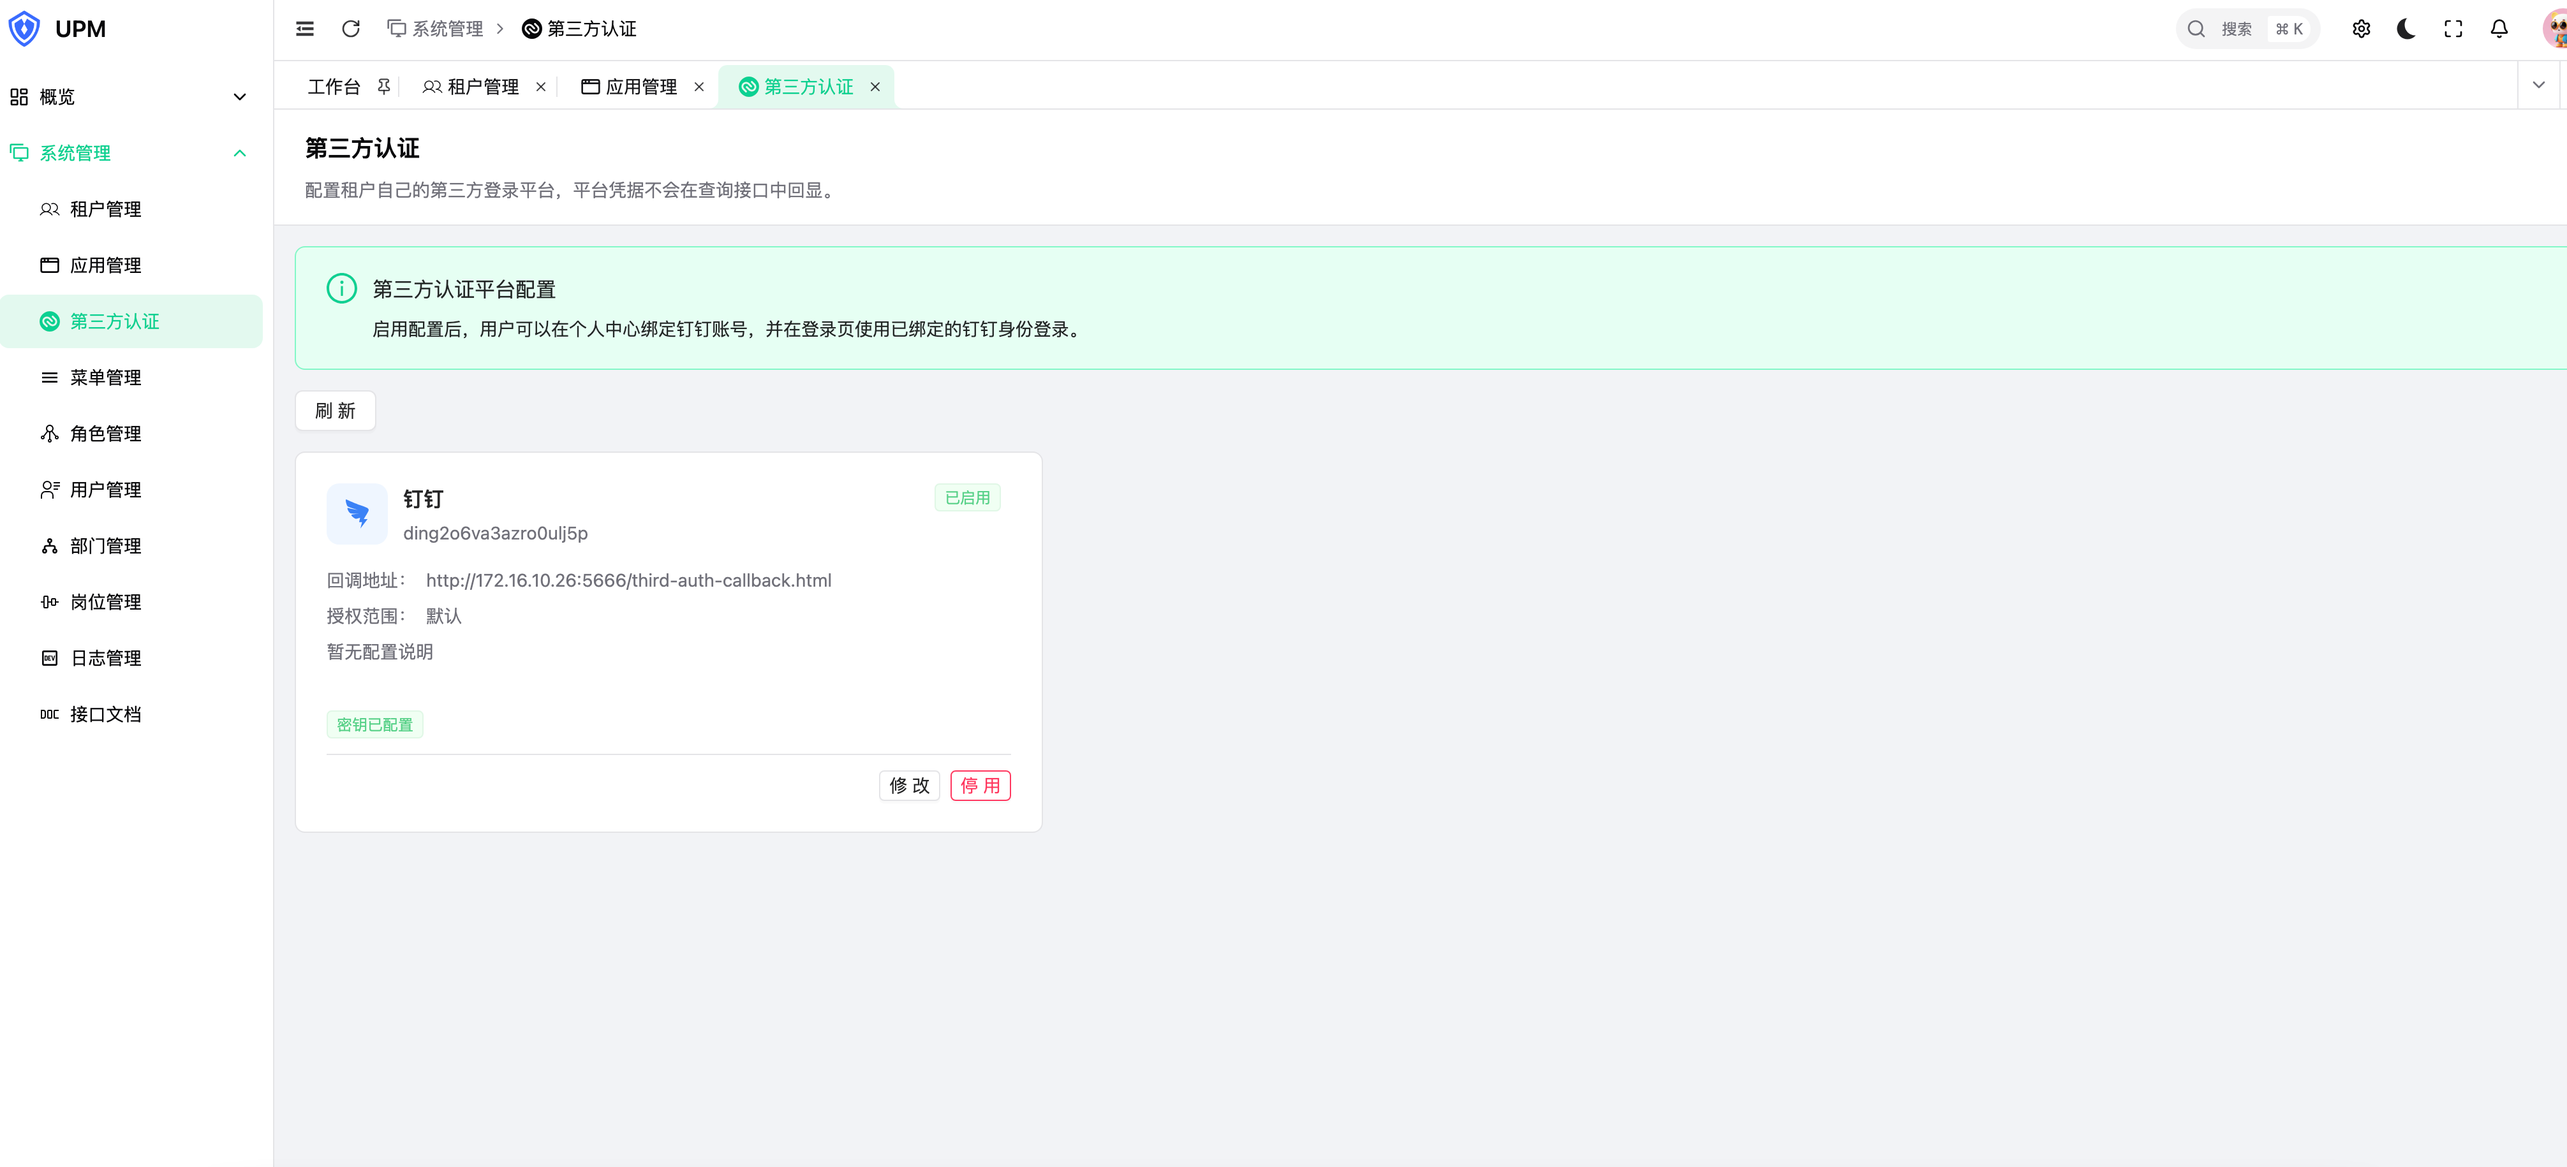
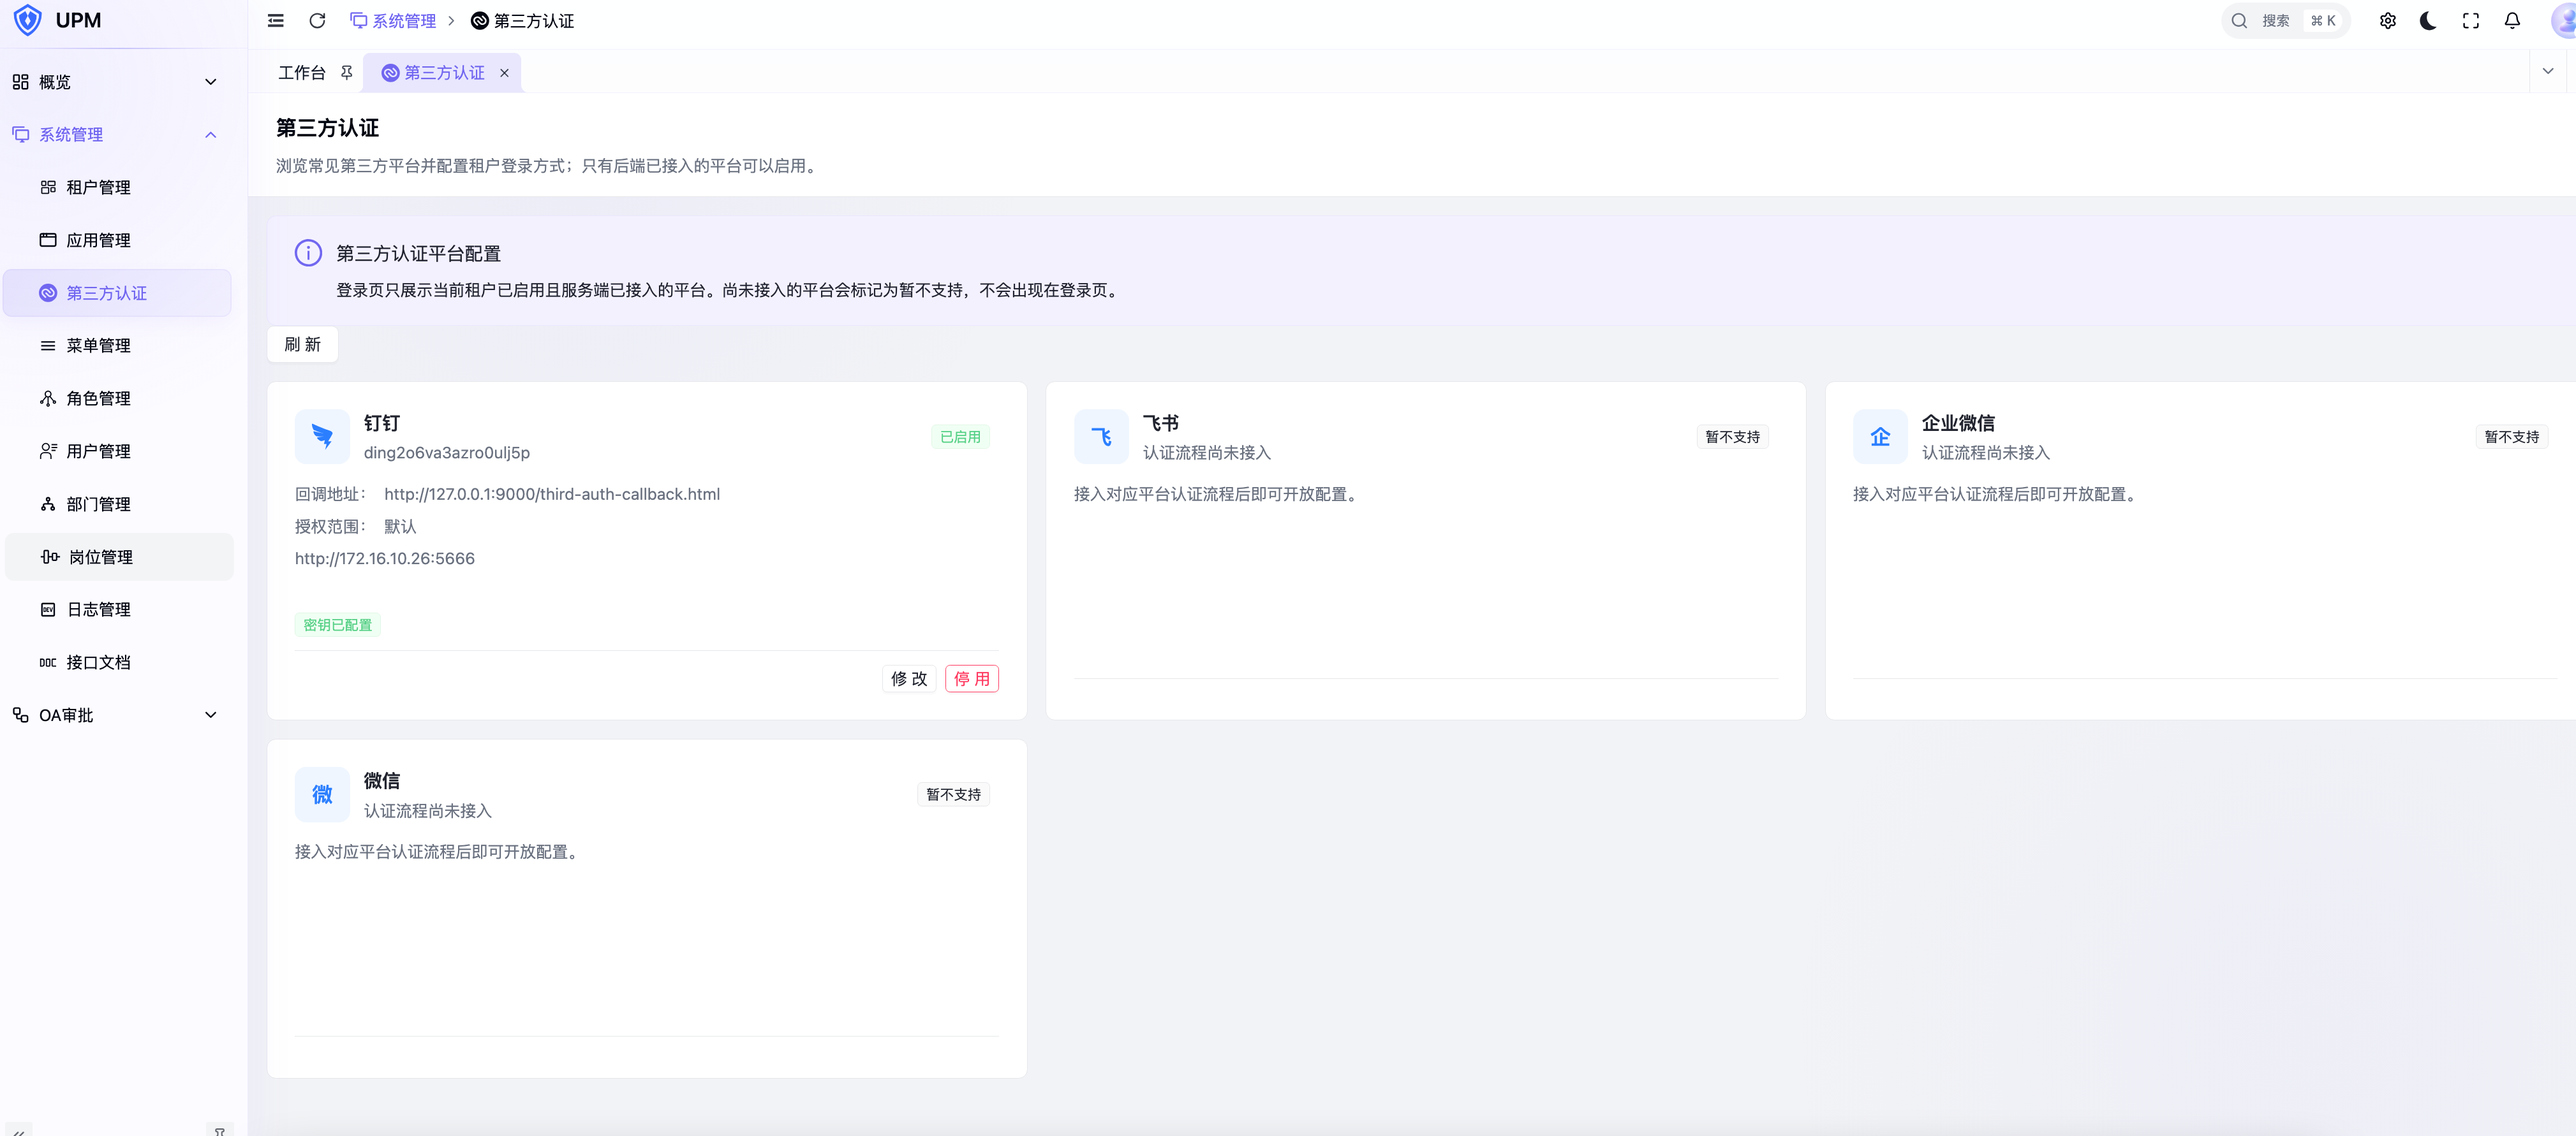
feat 更新readme oa审批相关

diff --git a/README.md b/README.md
@@ -324,6 +324,7 @@ mvn dependency:tree
 
 ## 截图
 
+### 系统管理
 ![启动页面](img/01_loading.png)
 ![登录页](img/02_login.png)
 ![租户管理](./img/03_租户管理.png)
@@ -334,6 +335,21 @@ mvn dependency:tree
 ![用户业务数据权限](./img/09_用户单独接口业务数据权限配置.png)
 ![日志列表](./img/10_日志.png)
 ![接口文档](./img/11_接口文档.png)
+
+### OA审批
+![流程定义列表](./img/21_流程定义.png)
+![流程定义新建基础设置](./img/22_流程定义基础设置.png)
+![节点属性设置](./img/23_节点属性设置.png)
+![节点拓展设置](./img/24_节点拓展设置.png)
+![节点办理人设置](./img/25_节点办理人设置.png)
+![请假申请提交](./img/26_请假申请提交.png)
+![请假提交流程详情](./img/27_请假提交流程详情.png)
+![流程节点办理人我的待办列表](./img/28_流程节点办理人我的待办列表.png)
+![办理人处理通过或退回](./img/29_办理人处理通过或退回.png)
+![审批记录.png](./img/30_审批记录.png)
+![办理人处理审核-配置可委派或转办](./img/31_办理人处理审核-配置可委派或转办.png)
+![委派人选择](./img/32_委派人选择.png)
+![审批完成后配置抄送人-抄送人列表](./img/33_审批完成后配置抄送人-抄送人列表.png)
 
 ## 许可证
 
